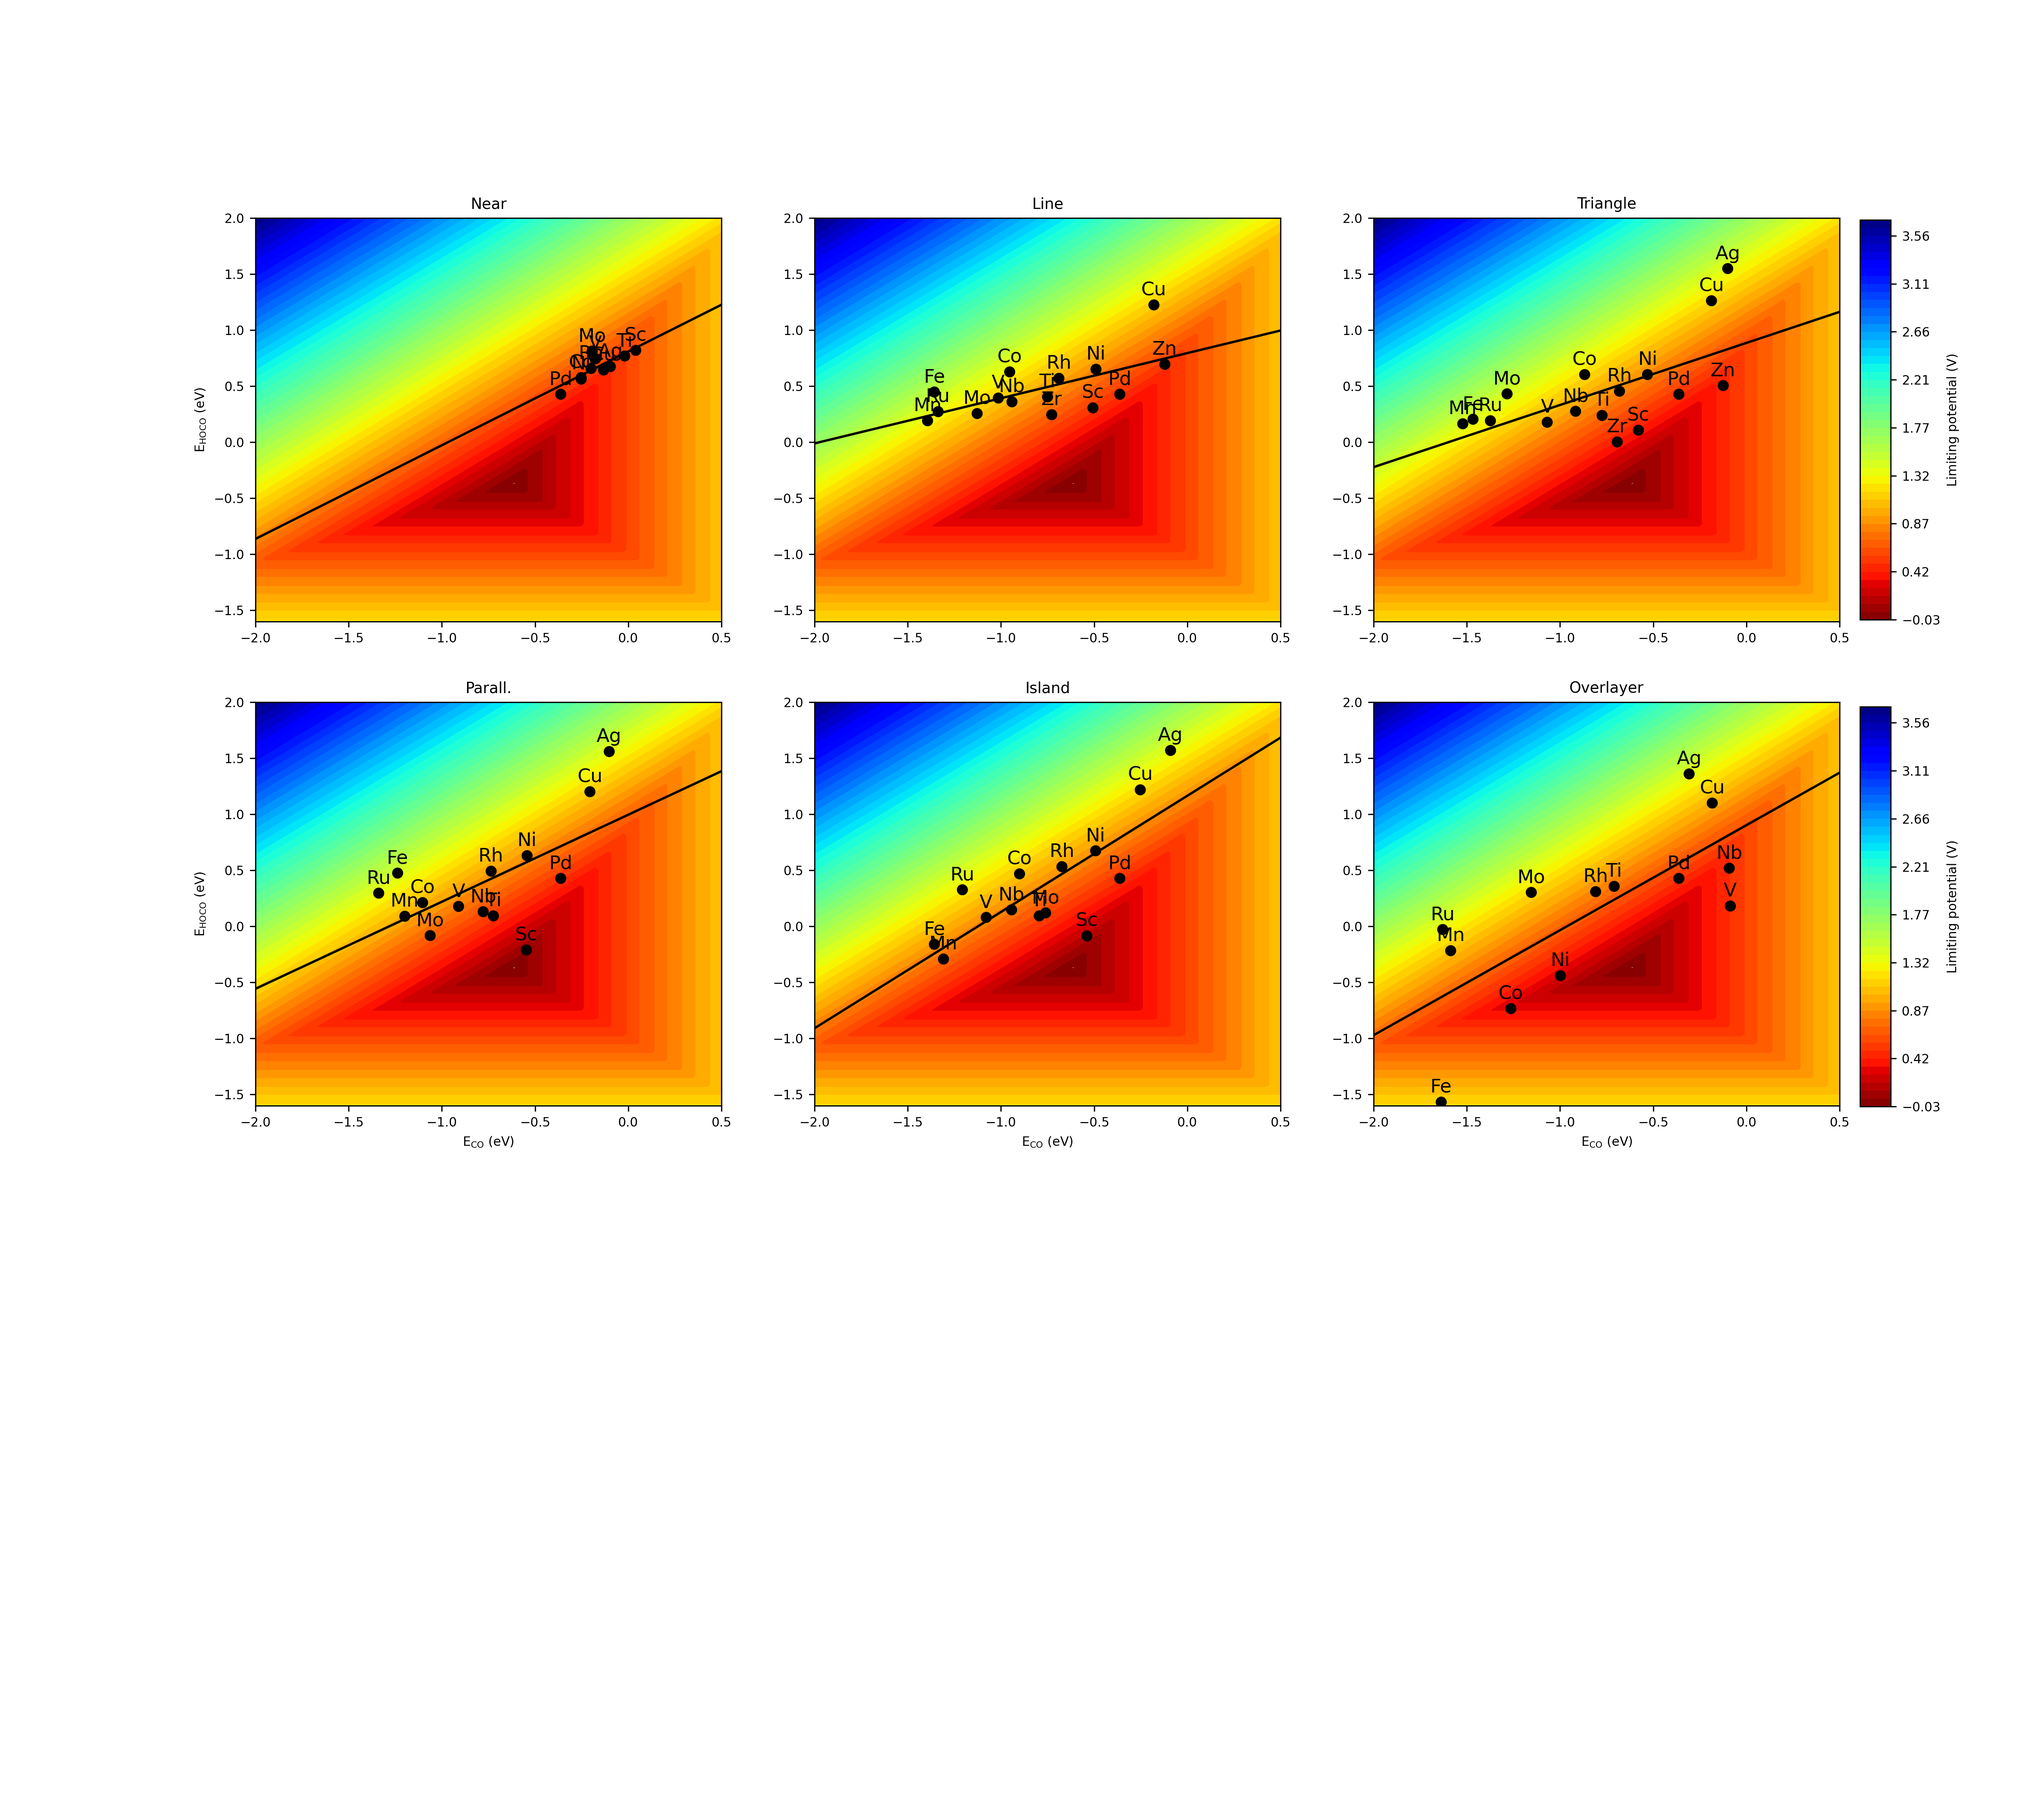
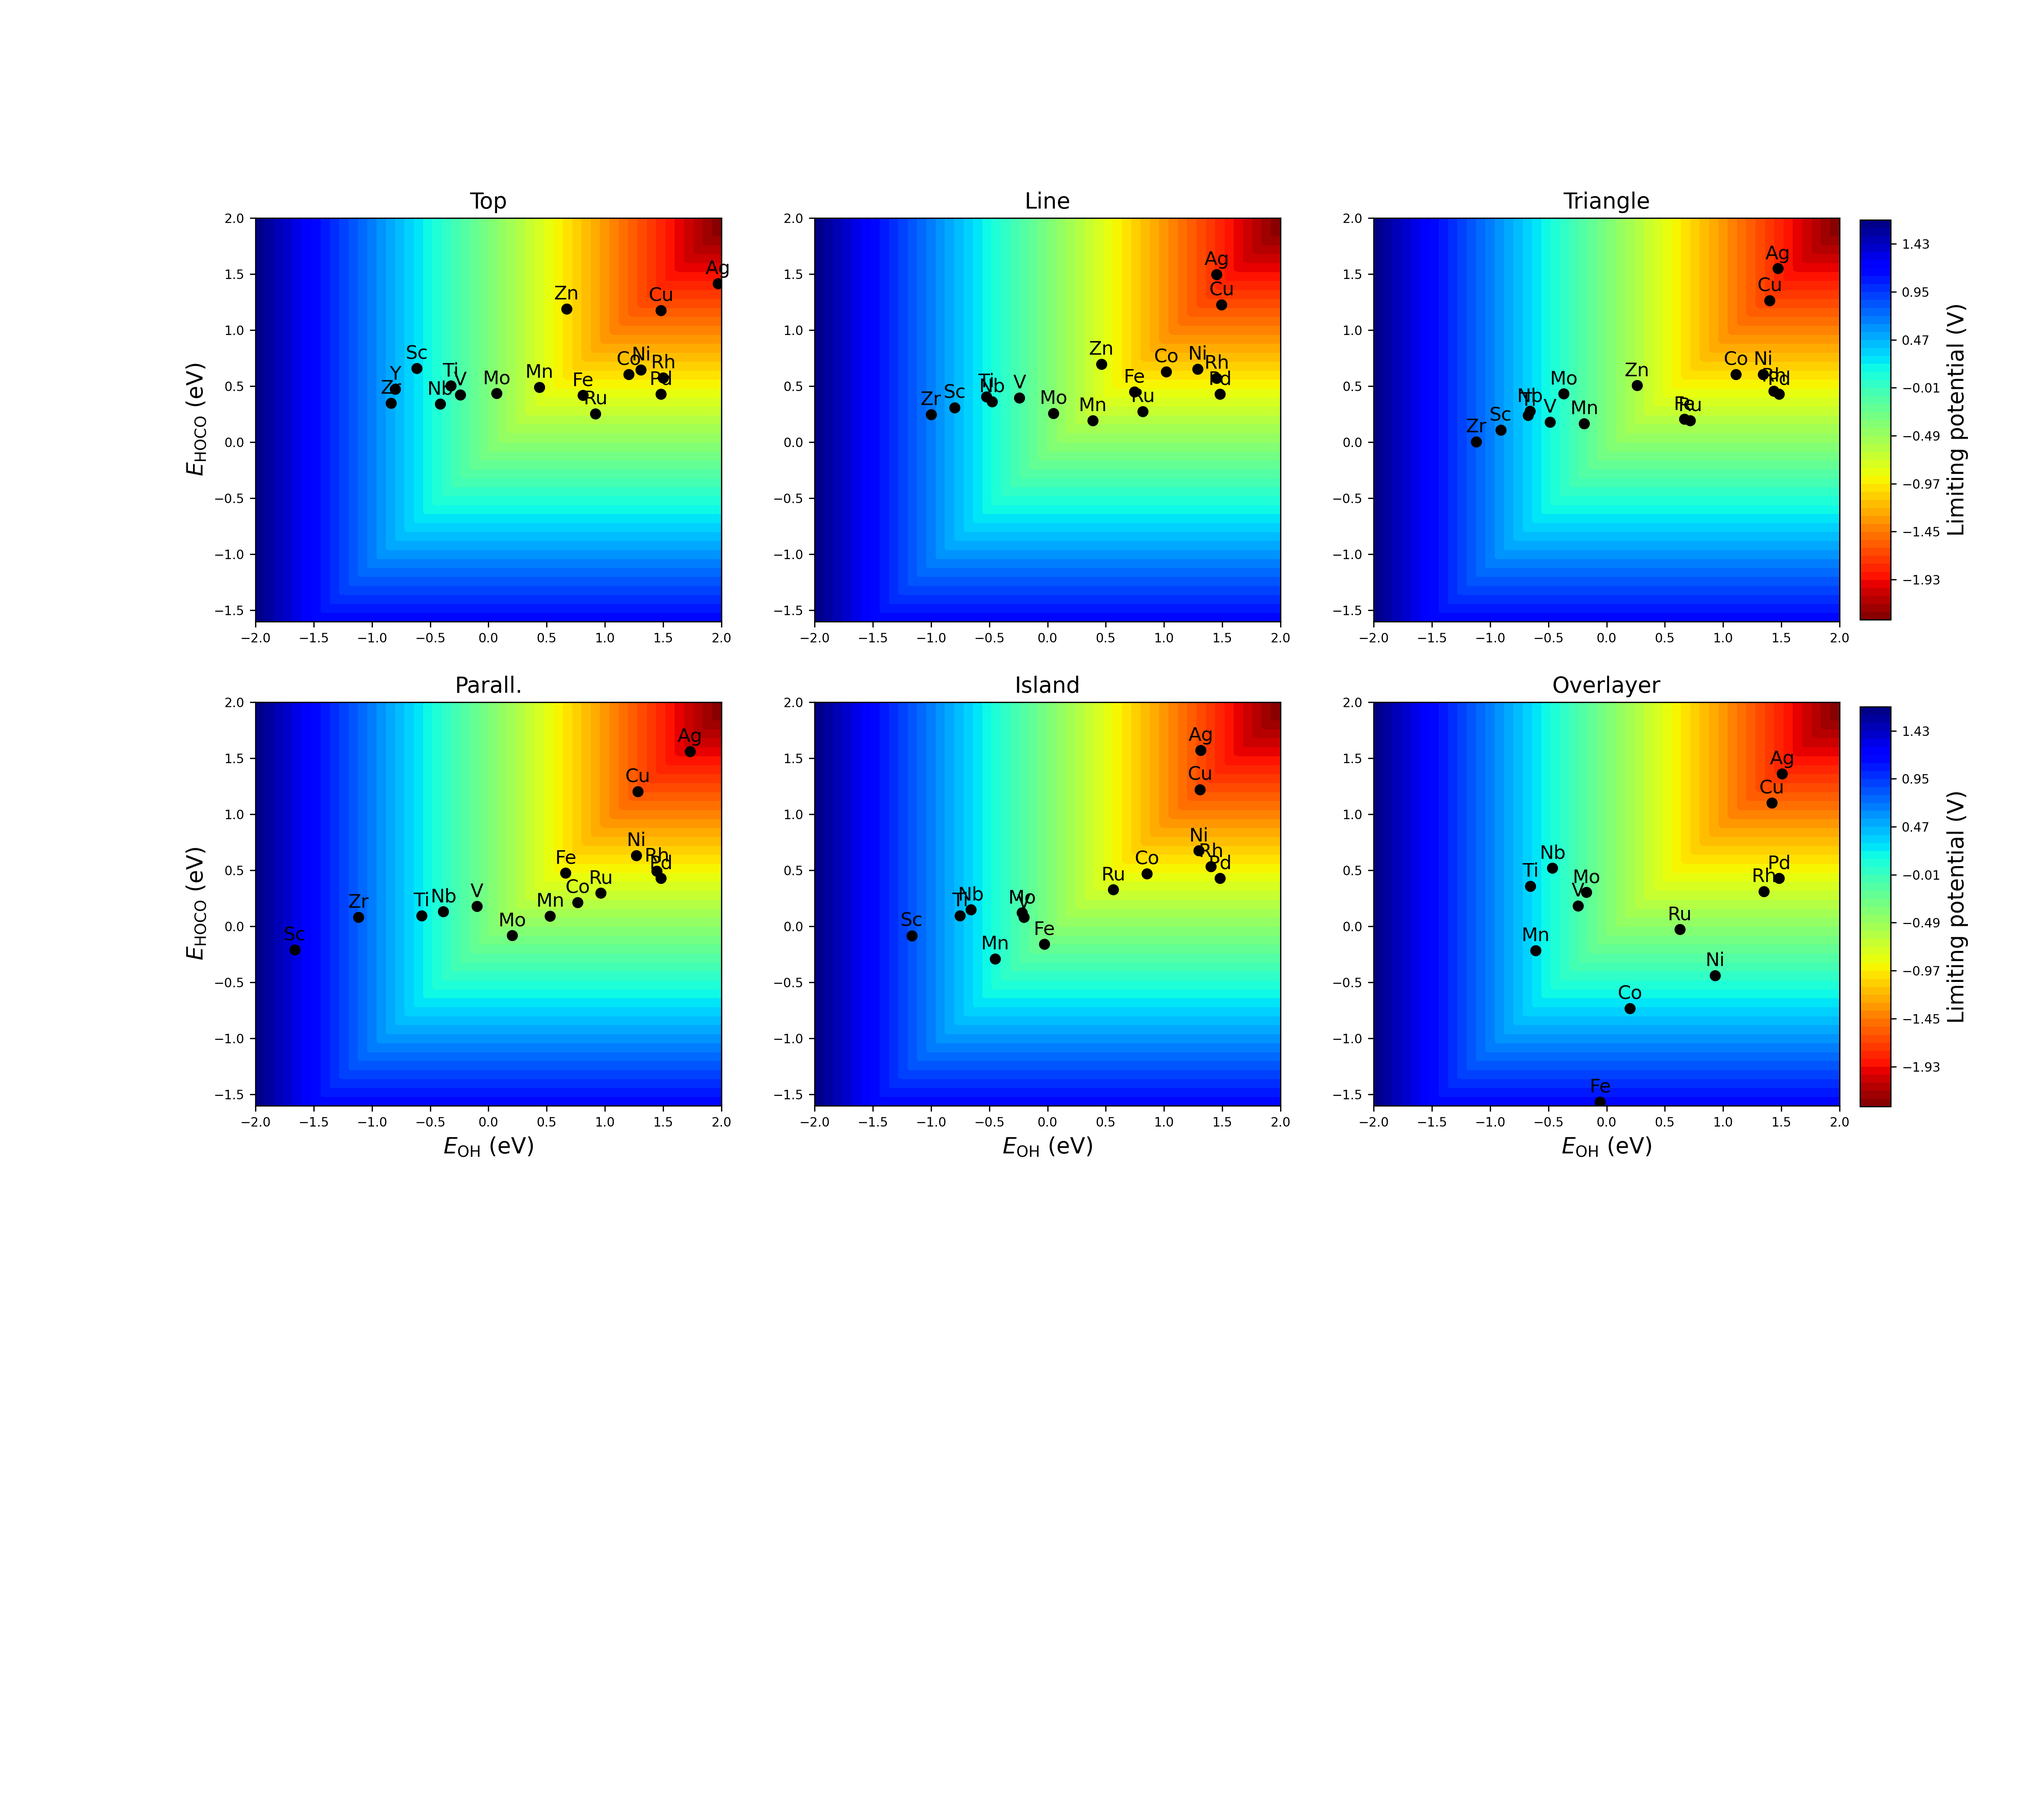
update volcano plot

diff --git a/plotpackage/myproject/Limiting_potential_multi_OH.py b/plotpackage/myproject/Limiting_potential_multi_OH.py
@@ -1,0 +1,208 @@
+# -*- coding: utf-8 -*-
+"""
+Created on Thu Aug 19 13:17:16 2021
+
+@author: changai
+"""
+
+#import parent dirs for local
+import sys
+sys.path.append("../..")
+
+from plotpackage.lib.io import read_excel, read_csv
+from plotpackage.lib.CO2RR import CO2RRFEDplot
+from plotpackage.lib.scalingrelation import ScalingRelationPlot
+from plotpackage.lib.figsmetadata import FigsMetaData
+import matplotlib.pyplot as plt
+import numpy as np
+from numpy import exp
+from CO2toCO_acid import CO2toCO
+from matplotlib import rc
+# rc('font', **{'family':'sans-serif','sans-serif':['Helvetica'], 'size':8})
+
+G_CO2g = -18.418 # eV
+G_H2g = -7.096# eV
+G_H2Og = -12.827 # eV
+G_COg = -12.564 # eV
+limiting_potenital = 0
+
+ddG_HOCO = 0.414 # correction from binding energy to free energy
+ddG_CO = 0.579
+ddG_OH = 0.333
+
+
+def limiting(EHOCO, EOH, T):
+    """ Calculate forward rate constants and equilibrium constants 
+    as function of the EO descriptor and temperature T.
+    """
+    
+    # reaction energies
+    # DE1 = EHOCO
+    # DE2 = ECO - EHOCO - E_CO2g - E_H2g + E_H2Og + E_COg
+    # DE3 = -ECO
+    DG1 = EHOCO + ddG_HOCO
+    DG2 = ECO + ddG_CO - EHOCO - ddG_HOCO - G_CO2g - G_H2g + G_H2Og + G_COg
+    DG3 = -ECO - ddG_CO
+    # DG3 = -0.2
+    # limiting_potenital = max(DE1, DE2, DE3)
+    
+    DG_OH = EOH + ddG_OH
+    # limiting_potenital = max(DE1, DE2, DE3)
+    # limiting_potenital = max(DG1/(-1), DG2/(-1), DG3/(-1)) 
+    limiting_potenital = max(DG1/(-1), DG_OH/(-1)) 
+
+    return limiting_potenital
+
+# EHOCO_d = {
+#     "Pd": 0.42967678,
+#     "Sc": -0.08249209,
+#     "Ti": 0.09677125,
+#     "V": 0.08057561,
+#     "Mn": -0.28851255,
+#     "Fe": -0.15955723,
+#     "Co": 0.47024493,
+#     "Ni": 0.67499474,
+#     "Cu": 1.22119557,
+#     # "Zn": 0.54101516,
+#     # "Y": -2.76843569,
+#     # "Zr": -1.44950915,
+#     "Nb": 0.14885378,
+#     "Mo": 0.12097152,
+#     "Ru": 0.32770351,
+#     "Rh": 0.53514527,
+#     "Ag": 1.57118722
+# }
+
+# ECO_d = {
+#     "Pd": -0.36259556,
+#     "Sc": -0.53887365,
+#     "Ti": -0.7954072,
+#     "V": -1.07970746,
+#     "Mn": -1.31038448,
+#     "Fe": -1.3575169,
+#     "Co": -0.90030351,
+#     "Ni": -0.49399452,
+#     "Cu": -0.25260203,
+#     # "Zn": -0.11389156,
+#     # "Y": -2.81622299,
+#     # "Zr": -0.10195565,
+#     "Nb": -0.94465297,
+#     "Mo": -0.76108613,
+#     "Ru": -1.20819791,
+#     "Rh": -0.6742065,
+#     "Ag": -0.09120301
+# }
+
+T = 297.15
+N = 100
+M = N +100
+ECOs = np.linspace(-2, 2, N)
+EHOCOs = np.linspace(-1.6, 2, M)
+
+limit = np.empty((M,N))
+for j, ECO in enumerate(ECOs):   # column
+    for i, EHOCO in enumerate(EHOCOs):  # row
+        limit[i][j] = limiting(EHOCO, ECO, T)
+
+
+filename = '../data/binding_energy.xlsx'
+#change it for excel and csv; ignore sheet, min_row, max_row, row_of_tag and col_of_ini_tag for csv
+min_col = 1 #1st column in excel
+max_col = 5 #5th column in excel
+
+#saved figure name
+figName1 = '../pictures/CO2RR_FreeEnergy_typesetting.jpg'  #free energy diagram name
+figName2 = '../pictures/ScalingRelation_typesetting.jpg' #scaling reation figure name
+
+index = 0
+fig = plt.figure(figsize=(18, 16), dpi = 300)
+text = ['Top', 'Line', 'Triangle', 'Parall.', 'Island', 'Overlayer']
+# col1 = [2, 2, 2, 3, 3, 5] #column in excel
+# col2 = [3, 5, 4, 5, 4, 4] #column in excel
+col1=2 # column in excel
+col2=5 # column in excel
+col1 = col1 - 2
+col2 = col2 - 2
+for types in ['top-new', 'line', 'triangle', 'paral-new', 'island-new', 'overly-new']:
+    #change it only for excel
+    sheet = types #Sheet1 by defaut
+    min_row = 1 #1st column in excel
+    max_row = 18 #9st column in excel
+    
+    ############ plot free energy diagram ###############
+    stepsNames, observationName, X = read_excel(filename, sheet, min_col, max_col, min_row, max_row) #load excel data
+    #stepsNames, observationName, X = read_csv(filename, , min_col, max_col) #load csv data
+    
+    # # del rows; delete according to element names in excel
+    del_ele = []
+    # if types == 'near-new':
+    #     del_ele = ['Fe', 'Ru', 'Zr', 'Y', 'Mn', 'Nb', 'Zn' ] #remove distortion for near
+    # elif types == 'line':
+    #     del_ele = ['Ag', 'Y'] #remove distortion for line
+    # elif types == 'triangle':
+    #     del_ele = ['Y',] #remove distortion for triangle
+    # elif types == 'paral-new':
+    #     del_ele = ['Zn', 'Y', 'Zr'] #remove distortion for paral
+    # elif types == 'island-new':
+    #     del_ele = ['Y', 'Zr',  'Zn'] #remove distortion for island
+    # elif types == 'overly-new':
+    #     del_ele = ['Sc', 'Zn', 'Y', 'Zr'] #remove distortion for line
+        
+    if types == 'top-new':
+        del_ele = [] #remove distortion for near
+    elif types == 'line':
+        del_ele = ['Y', ] #remove distortion for line
+    elif types == 'triangle':
+        del_ele = ['Y',] #remove distortion for triangle
+    elif types == 'paral-new':
+        del_ele = ['Zn', 'Y',] #remove distortion for paral
+    elif types == 'island-new':
+        del_ele = ['Zn', 'Y', 'Zr'] #remove distortion for island
+    elif types == 'overly-new':
+        del_ele = ['Sc', 'Zn', 'Y', 'Zr'] #remove distortion for line
+        
+    del_rows = [observationName.index(each)+2 for each in del_ele]
+    ### del_rows = [10, 12, 13, 18]  #delete according to rows in excel
+    del_list = [x - 2 for x in del_rows]
+    observationName = np.delete(observationName, del_list, 0)
+    X = np.delete(X, del_list, 0)
+    
+    
+    ax = plt.subplot(3, 3, index + 1)
+    EHOCO_d = (X[:, col1]).astype(float) 
+    ECO_d = (X[:, col2]).astype(float) 
+
+    # plot contour images
+    contours = np.linspace(np.min(limit), np.max(limit), 51) 
+    # print(np.min(limit), np.max(limit))
+    cp = ax.contourf(ECOs, EHOCOs, limit, np.round(contours, 2), cmap=plt.cm.jet_r) # X=columns, Y=rows, Z in z direction
+    
+    # plot scaling relation
+    for i,metal in enumerate(observationName):
+        plt.plot(ECO_d[i], EHOCO_d[i], 'o', color='black') 
+        plt.text(ECO_d[i], EHOCO_d[i]+0.05, metal, fontsize=12, horizontalalignment='center', verticalalignment='bottom')
+    
+    #linear fiting and plot linear line
+    # m, b = np.polyfit(ECO_d, EHOCO_d, 1)
+    # plt.axline((ECO_d[0], ECO_d[0]*m +b), slope=m, color='black')
+    m, b = np.polyfit(EHOCO_d, ECO_d, 1)
+    # plt.axline(( ECO_d[0], ECO_d[0]/m-b/m), slope=1/m, color='black')
+
+    plt.title(text[index], fontsize=14)
+    if index==3 or index==4 or index==5:
+        plt.xlabel(r'$E_{\mathrm{OH}}$ (eV)', fontsize=14)
+    if index==0 or index==3:
+        plt.ylabel(r'$E_{\mathrm{HOCO}}$ (eV)', fontsize=14)
+    if index==2:
+        cbaxes = fig.add_axes([0.91, 0.659, 0.015, 0.22]) #Add position (left, bottom, width, height)
+        bar = fig.colorbar(cp, cax=cbaxes)
+        bar.set_label(r'Limiting potential (V)', fontsize=14)
+    if index==5:
+        cbaxes = fig.add_axes([0.91, 0.391, 0.015, 0.22]) #Add position (left, bottom, width, height)
+        bar = fig.colorbar(cp, cax=cbaxes)
+        bar.set_label(r'Limiting potential (V)', fontsize=14)
+    
+    index = index +1
+    
+plt.savefig('../data/limiting potential.png', dpi=300)    
+plt.show()

diff --git a/plotpackage/myproject/CO2RR_plot.py b/plotpackage/myproject/CO2RR_plot.py
@@ -21,7 +21,7 @@ min_col = 1 #1st column in excel
 max_col = 5 #5th column in excel
 
 #change it only for excel
-sheet = 'paral-new' #Sheet1 by defaut
+sheet = 'top-new' #Sheet1 by defaut
 # min_row = 20 #1st column in excel
 # max_row = 37 #9st column in excel
 min_row = 1 #1st column in excel
@@ -41,7 +41,7 @@ del_ele = []
 # del_ele = ['Y', 'Zr', 'Sc', 'Zn'] 
 # del_ele = ['Ag', 'Cu', 'Ti', 'Sc'] #remove distortion for island
 # del_ele += ['Sc', 'Ti', 'V', 'Mn', 'Fe', 'Zn', 'Y', 'Zr', 'Nb', 'Mo', 'Ru'] #del double bonds for island
-del_ele = ['Zn', 'Y', ]
+# del_ele = ['Zn', 'Y', ]
 # del_ele = ['Zn', 'Y', 'Zr'] #remove distortion for parallelogram
 # del_ele += ['Sc', 'Ti', 'V', 'Mn', 'Zn', 'Y', 'Zr', 'Nb', 'Mo'] #del double bonds for parallelogram
 # del_ele = ['Zn', 'Y', 'Zr']
@@ -49,6 +49,7 @@ del_ele = ['Zn', 'Y', ]
 # del_ele = ['Y',] #remove distortion for triangle
 # del_ele = ['Ag', 'Y'] #remove distortion for line
 # del_ele = ['Fe', 'Ru', 'Zr', 'Y', 'Mn', 'Nb', 'Zn' ] #remove distortion for near
+del_ele = [ 'Sc', 'Ti', 'V', 'Mn', 'Fe', 'Co', 'Ni', 'Cu', 'Zn', 'Y', 'Zr', 'Nb', 'Mo', 'Ru', 'Rh', 'Ag']
 del_rows = [observationName.index(each)+2 for each in del_ele]
 ### del_rows = [10, 12, 13, 18]  #delete according to rows in excel
 del_list = [x -2 for x in del_rows]

diff --git a/plotpackage/myproject/Limiting_potential.py b/plotpackage/myproject/Limiting_potential.py
@@ -20,9 +20,9 @@ limiting_potenital = 0
 
 ddG_HOCO = 0.414 # correction from binding energy to free energy
 ddG_CO = 0.579
+ddG_OH = 0.333
 
-
-def limiting(EHOCO, ECO, T):
+def limiting(EHOCO, EOH, T):
     """ Calculate forward rate constants and equilibrium constants 
     as function of the EO descriptor and temperature T.
     """
@@ -34,8 +34,13 @@ def limiting(EHOCO, ECO, T):
     DG1 = EHOCO + ddG_HOCO
     DG2 = ECO + ddG_CO - EHOCO - ddG_HOCO - G_CO2g - G_H2g + G_H2Og + G_COg
     DG3 = -ECO - ddG_CO
+    
+    DG_OH = EOH + ddG_OH
     # limiting_potenital = max(DE1, DE2, DE3)
-    limiting_potenital = max(DG1/(-1), DG2/(-1), DG3/(-1)) 
+    # limiting_potenital = max(DG1/(-1), DG2/(-1), DG3/(-1)) 
+    limiting_potenital = max(DG1/(-1), DG_OH/(-1))
+    # limiting_potenital = max(DG1/(-1), DG2/(-1)) 
+    # limiting_potenital = max( DG2/(-1), DG_OH/(-1)) 
 
     return limiting_potenital
 

diff --git a/plotpackage/myproject/CO2RR_TOF_2D_multi.py b/plotpackage/myproject/CO2RR_TOF_2D_multi.py
@@ -27,7 +27,7 @@ G_COg = -12.564 # eV
 
 kB = 8.617e-5 # Boltzmann constant in eV/K
 hplanck = 4.135669e-15 # eV s
-T0 = 297.15
+T0 = 370
 Gact0 = Gact1 = Gact2 = 0.475 # activative free energy
 tc0 = tc1 = tc2 = 0.5  #???
 A_act1 = np.exp( - Gact1 / ( kB * T0 ) ) # 
